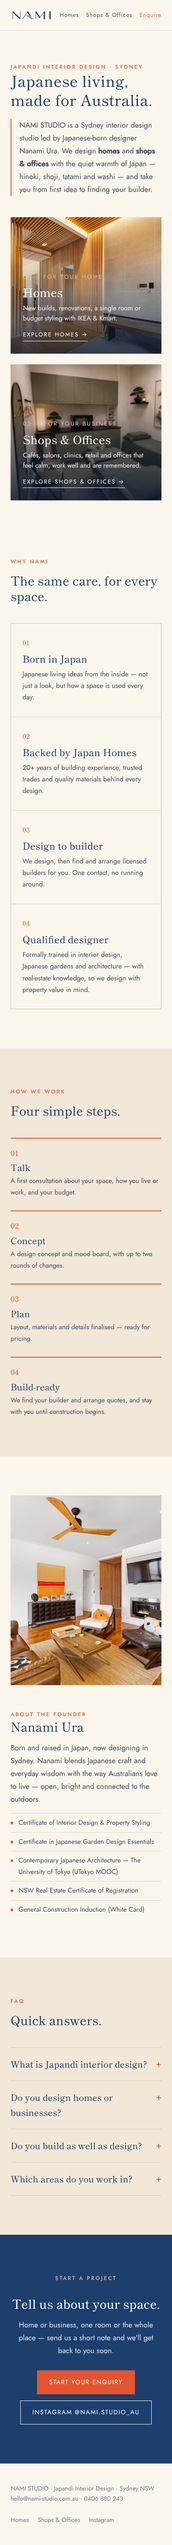
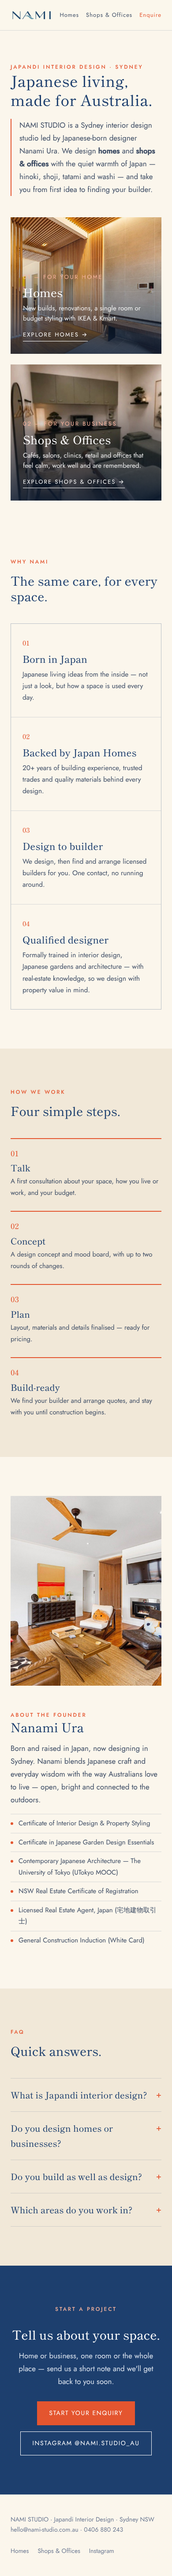
Website: add Takken licence to founder qualifications
Claude-Session: https://claude.ai/code/session_01LMQJVP3iY12Mot613LaoTx

diff --git a/website/index.html b/website/index.html
@@ -42,6 +42,7 @@
     {"@type":"EducationalOccupationalCredential","name":"Certificate in Japanese Garden Design Essentials"},
     {"@type":"EducationalOccupationalCredential","name":"Four Facets of Contemporary Japanese Architecture (The University of Tokyo)"},
     {"@type":"EducationalOccupationalCredential","name":"NSW Real Estate Certificate of Registration"},
+    {"@type":"EducationalOccupationalCredential","name":"Licensed Real Estate Agent, Japan (Takken-shi, 宅地建物取引士)","credentialCategory":"license","recognizedBy":{"@type":"GovernmentOrganization","name":"Tokyo Metropolitan Government"}},
     {"@type":"EducationalOccupationalCredential","name":"General Construction Induction (White Card)"}]},
   {"@type":"WebSite","@id":"https://nami-studio.com.au/#site","url":"https://nami-studio.com.au/","name":"NAMI STUDIO","publisher":{"@id":"https://nami-studio.com.au/#studio"},"inLanguage":"en-AU"},
   {"@type":"FAQPage","mainEntity":[
@@ -120,6 +121,7 @@
    <li>Certificate in Japanese Garden Design Essentials</li>
    <li>Contemporary Japanese Architecture — The University of Tokyo (UTokyo MOOC)</li>
    <li>NSW Real Estate Certificate of Registration</li>
+   <li>Licensed Real Estate Agent, Japan (宅地建物取引士)</li>
    <li>General Construction Induction (White Card)</li>
   </ul>
  </div>
